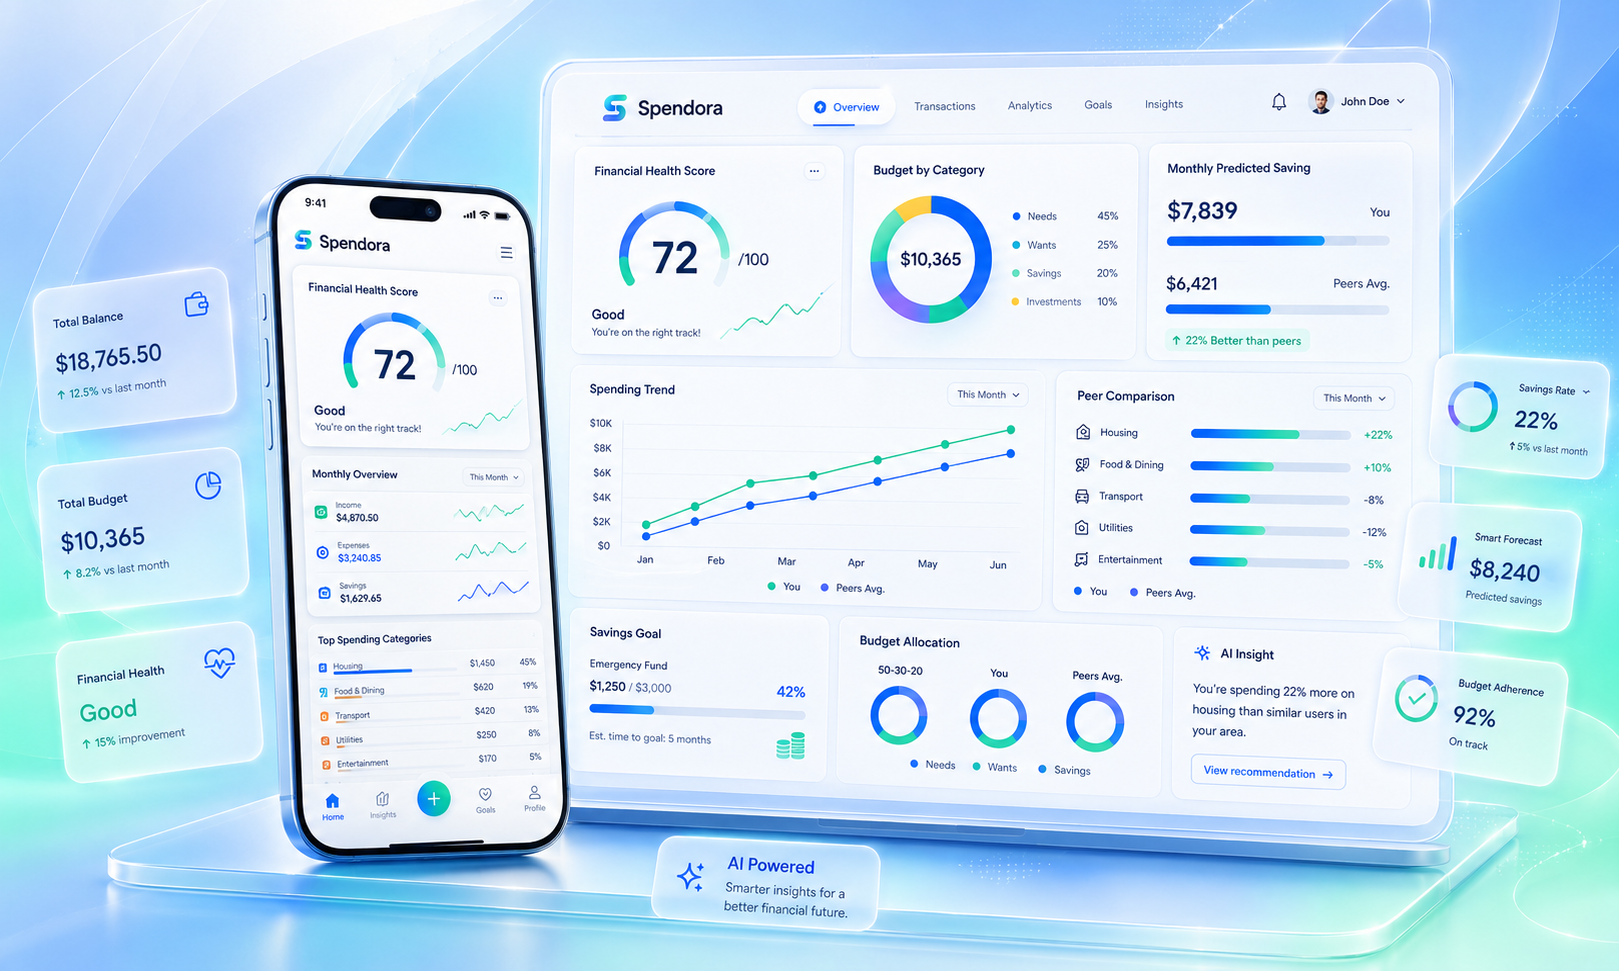
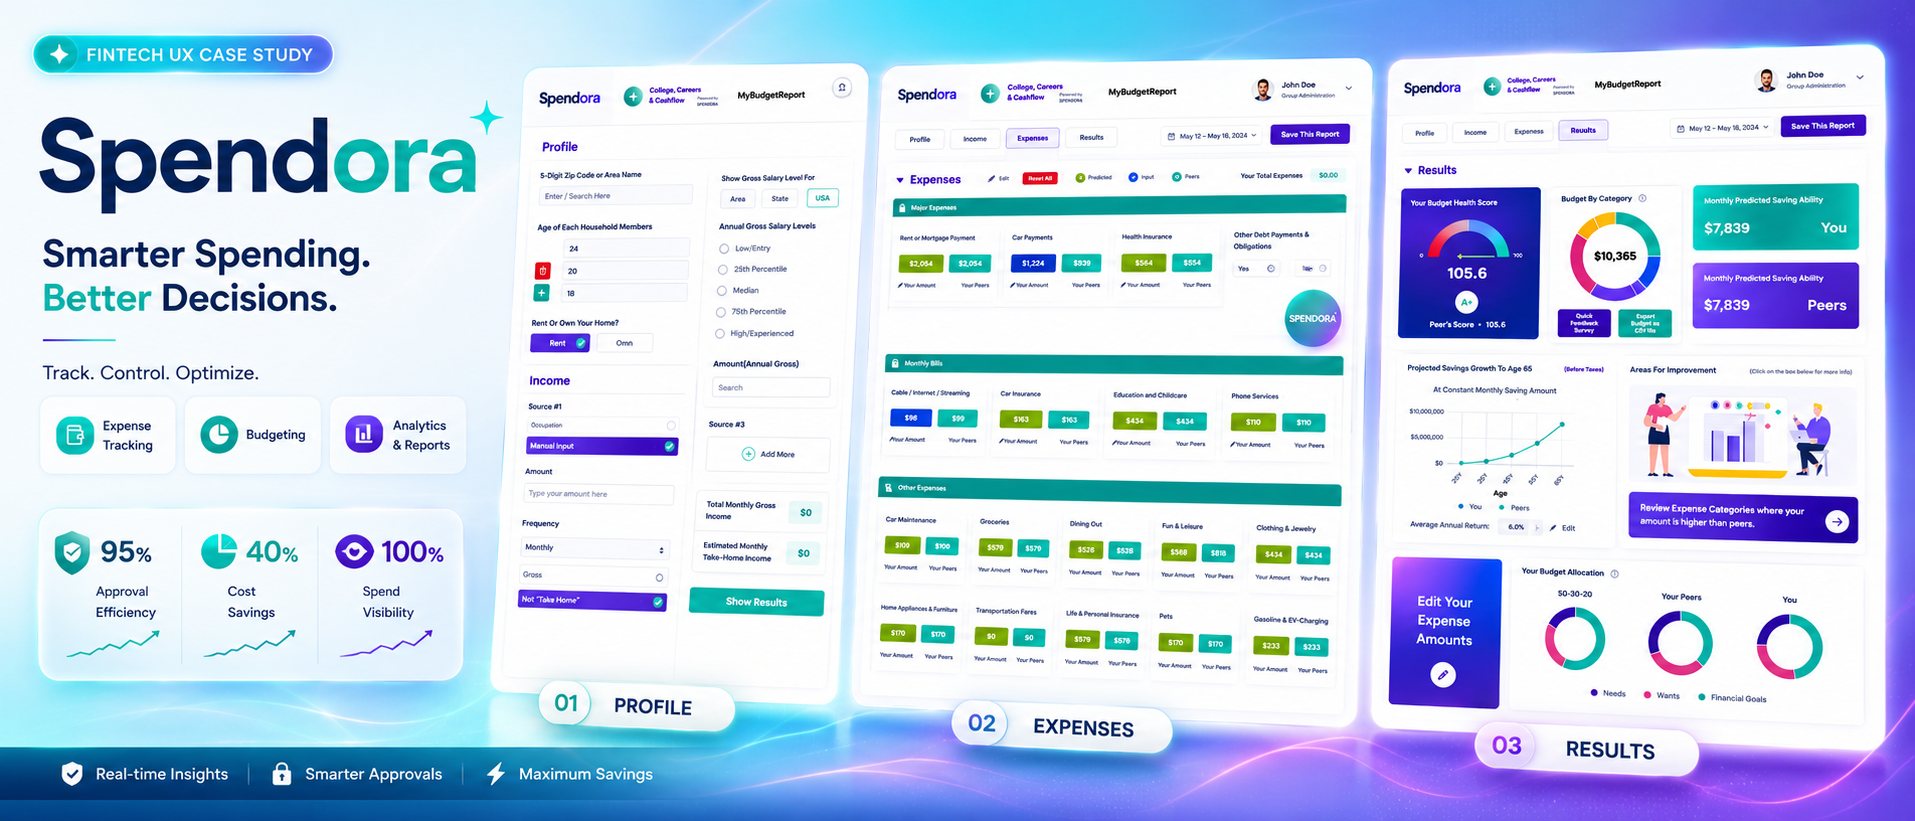
feat: update project images and links for Carenova, Spendora, OasisPad, TicketStack, MarketVision, and MRI Logic

diff --git a/data/projects.ts b/data/projects.ts
@@ -14,7 +14,7 @@ export const projects: Project[] = [
     slug: "spendora",
     title: "AI-POWERED SMART EXPENSE ECOSYSTEM",
     category: "Spendora™",
-    image: "/images/spendora.png",
+    image: "/images/Spendora-Card-Folio.png",
     description: "Intelligent expense tracking and financial management powered by AI.",
     results: "+35% Savings Accuracy",
     tags: ["Fintech", "AI UX", "Mobile Design"],
@@ -24,7 +24,7 @@ export const projects: Project[] = [
     slug: "carenova",
     title: "FACILITY & COMPLIANCE MANAGEMENT PLATFORM",
     category: "Carenova™",
-    image: "/images/carevanata.png",
+    image: "/images/Carenova-Card-Folio.png",
     description: "Comprehensive enterprise platform for facility operations and compliance tracking.",
     results: "100% Compliance Rate",
     tags: ["Enterprise SaaS", "Workflow", "Dashboard"],
@@ -34,7 +34,7 @@ export const projects: Project[] = [
     slug: "oasispad",
     title: "SMART KNOWLEDGE & PRODUCTIVITY WORKSPACE",
     category: "OasisPad™",
-    image: "/images/oasispad.png",
+    image: "/images/OasisPad-Card-Folio.png",
     description: "Next-gen workspace for knowledge management and team collaboration.",
     results: "40% Productivity Boost",
     tags: ["Productivity", "SaaS", "UX Design"],
@@ -44,7 +44,7 @@ export const projects: Project[] = [
     slug: "ticketstack",
     title: "RETAIL TICKETING EXPERIENCE REDESIGN",
     category: "TicketStack™",
-    image: "/images/ticketstack.png",
+    image: "/images/TicketStack-Card-Folio.png",
     description: "Modernizing the retail ticketing process with an intuitive digital ecosystem.",
     results: "50% Faster Transactions",
     tags: ["Retail UX", "System Design"],
@@ -54,7 +54,7 @@ export const projects: Project[] = [
     slug: "marketvisionai",
     title: "AI-POWERED MARKET INTELLIGENCE PLATFORM",
     category: "MarketVisionAI™",
-    image: "/images/marketvisionai.png",
+    image: "/images/MarketVision-Card-Folio.png",
     description: "Real-time market insights and predictive analytics for strategic decision making.",
     results: "Validated Market Trends",
     tags: ["AI Platform", "Data Viz"],
@@ -64,7 +64,7 @@ export const projects: Project[] = [
     slug: "carevation-healthcare",
     title: "SMART CAREGIVING & COORDINATION PLATFORM",
     category: "Carevation™",
-    image: "/images/pulse-grid.png",
+    image: "/images/Carevation-Card-Folio.png",
     description: "Streamlining care coordination and patient monitoring for healthcare teams.",
     results: "+60% Care Efficiency",
     tags: ["Healthcare", "UX Strategy"],
@@ -74,7 +74,7 @@ export const projects: Project[] = [
     slug: "mri-logic",
     title: "AI-ASSISTED MEDICAL DEVICE VALIDATION TOOL",
     category: "MRI Logic™",
-    image: "/images/pulse-grid.png",
+    image: "/images/MRILogic-Card-Folio.png",
     description: "Cutting-edge AI tool for validating complex medical device data and compliance.",
     results: "99.9% Accuracy",
     tags: ["Healthcare", "AI", "Medical Tech"],
@@ -84,7 +84,7 @@ export const projects: Project[] = [
     slug: "supercampus",
     title: "DIGITAL LEARNING & ADMINISTRATION ECOSYSTEM",
     category: "SuperCampus™",
-    image: "/images/spendora.png",
+    image: "/images/SuperCampus-Card-Folio.png",
     description: "All-in-one platform for educational administration and digital learning workflows.",
     results: "Empowering 10k+ Students",
     tags: ["EdTech", "SaaS", "Admin UX"],

diff --git a/pages/case-studies/ticketstack.js b/pages/case-studies/ticketstack.js
@@ -43,7 +43,7 @@ export default function TicketStackCaseStudy() {
       <div className={`w-full ${aspect} glass-card rounded-3xl flex flex-col items-center justify-center overflow-hidden relative group transition-all duration-500 border-2 border-[#4F46E5]/10 hover:border-[#EC4899]/40 shadow-lg`}>
          <div
             className="absolute -top-24 -right-24 w-64 h-64 blur-[60px] rounded-full transition-all duration-700 group-hover:scale-[1.5] group-hover:opacity-20 opacity-10 pointer-events-none z-0"
-            style={{ backgroundColor: glowCls.replace('bg-[', '').replace(']', '') }}
+           style={{ backgroundColor: glowCls.replace('bg-[', '').replace(']', '') }}
          />
          <div className="absolute inset-0 bg-gradient-to-tr from-black/5 to-transparent pointer-events-none" />
          {Icon && <Icon className={`w-14 h-14 mb-4 flex-shrink-0 group-hover:scale-110 transition-transform duration-500 relative z-10 ${textCls} opacity-30`} strokeWidth={1.2} />}
@@ -145,7 +145,12 @@ export default function TicketStackCaseStudy() {
                         className="absolute -top-32 -right-32 w-96 h-96 blur-[100px] rounded-full transition-all duration-700 group-hover:scale-125 group-hover:opacity-30 opacity-30 pointer-events-none z-0"
                         style={{ background: 'linear-gradient(135deg, #EC4899 0%, #4F46E5 100%)' }}
                      />
-                     {/* Dummy Placeholder */}
+                       <Image
+                           src="/images/ticketstack/HeroProduct-Dashboard.png"
+                           alt="TicketStack Dashboard"
+                           fill
+                           className="object-cover relative z-10 transition-transform duration-1000 group-hover:scale-[1.02]"
+                        />
                      <div className="text-center relative z-10 opacity-40">
                          <Layout size={64} className="mx-auto mb-4 text-[#4F46E5]" />
                          <p className="font-bold tracking-widest uppercase text-slate-800">Hero Product Dashboard Mockup</p>
@@ -486,7 +491,13 @@ export default function TicketStackCaseStudy() {
                             </div>
                        </div>
                        <div className="relative">
-                            <PremiumPlaceholder aspect="aspect-square" label="Information Architecture Sitemap" glowCls="bg-[#EC4899]" icon={Layers} />
+                             <PremiumPlaceholder aspect="aspect-square" label="Information Architecture Sitemap" glowCls="bg-[#EC4899]" icon={Layers} />
+                              <div className="w-full glass-card rounded-3xl overflow-hidden relative group transition-all duration-500 border-2 border-[#4F46E5]/10 hover:border-[#EC4899]/40 shadow-lg">
+                                 <img src="/images/ticketstack/InformationArchitecture.png" alt="Information Architecture Sitemap" className="w-full h-auto object-contain" />
+                                 <span className="absolute bottom-4 left-0 right-0 text-center font-bold tracking-[0.2em] text-[10px] uppercase text-text-secondary opacity-50 group-hover:opacity-100 transition-opacity z-10">
+                                    Information Architecture Sitemap
+                                 </span>
+                              </div>
                        </div>
                    </div>
                </section>

diff --git a/components/ProjectsSlider.js b/components/ProjectsSlider.js
@@ -13,7 +13,7 @@ const projects = [
     title: 'Spendora™',
     slug: 'spendora',
     subtitle: 'AI‑Powered Smart Expense',
-    img: '/images/spendora.png',
+    img: '/images/Spendora-Card-Folio.png',
     description:
       'A full‑stack SaaS platform that streamlines expense reporting with AI‑driven categorisation and real‑time analytics.',
   },
@@ -21,7 +21,7 @@ const projects = [
     title: 'Carenova™',
     slug: 'carenova',
     subtitle: 'Facility & Compliance',
-    img: '/images/carevanata.png',
+    img: '/images/Carenova-Card-Folio.png',
     description:
       'Enterprise‑grade solution for facility operations, allowing automated compliance checks and resource scheduling.',
   },
@@ -29,7 +29,7 @@ const projects = [
     title: 'OasisPad™',
     slug: 'oasispad',
     subtitle: 'Smart Knowledge Workspace',
-    img: '/images/oasispad.png',
+    img: '/images/OasisPad-Card-Folio.png',
     description:
       'A collaborative note‑taking environment with AI‑suggested tagging and contextual linking.',
   },
@@ -37,7 +37,7 @@ const projects = [
     title: 'TicketStack™',
     slug: 'ticketstack',
     subtitle: 'Retail Ticketing Redesign',
-    img: '/images/ticketstack.png',
+    img: '/images/TicketStack-Card-Folio.png',
     description:
       'Revamped ticketing UI for retail stores, delivering frictionless checkout and analytics.',
   },
@@ -45,7 +45,7 @@ const projects = [
     title: 'MarketVisionAI™',
     slug: 'marketvisionai',
     subtitle: 'AI Market Intelligence',
-    img: '/images/marketvisionai.png',
+    img: '/images/MarketVision-Card-Folio.png',
     description:
       'AI-powered market intelligence platform that continuously analyzes global market signals and proactively recommends strategic business opportunities.',
   },
@@ -53,7 +53,7 @@ const projects = [
     title: 'MRI Logic™',
     slug: 'mri-logic',
     subtitle: 'Medical Device Validation',
-    img: '/images/pulse-grid.png',
+    img: '/images/MRILogic-Card-Folio.png',
     description:
       'AI-assisted medical device validation platform accelerating MRI compliance, risk analysis, and clinical validation workflows.',
   },

diff --git a/components/Hero.js b/components/Hero.js
@@ -111,12 +111,12 @@ const Hero = () => {
                 </div>
                 <div className="grid grid-cols-2 sm:grid-cols-6 gap-3 md:gap-4">
                   {[
-                    { img: "/images/carevanata.png", name: "Carevanta", href: "/case-studies/carenova" },
-                    { img: "/images/spendora.png", name: "Spendora", href: "/case-studies/spendora" },
-                    { img: "/images/oasispad.png", name: "OasisPad", href: "/case-studies/oasispad" },
-                    { img: "/images/ticketstack.png", name: "TicketStack", href: "/case-studies/ticketstack" },
-                    { img: "/images/marketvisionai.png", name: "MarketVision", href: "/case-studies/marketvisionai" },
-                    { img: "/images/pulse-grid.png", name: "MRI Logic", href: "/case-studies/mri-logic" },
+                    { img: "/images/Carenova-Card-Folio.png", name: "carenova", href: "/case-studies/carenova" },
+                    { img: "/images/Spendora-Card-Folio.png", name: "Spendora", href: "/case-studies/spendora" },
+                    { img: "/images/OasisPad-Card-Folio.png", name: "OasisPad", href: "/case-studies/oasispad" },
+                    { img: "/images/TicketStack-Card-Folio.png", name: "TicketStack", href: "/case-studies/ticketstack" },
+                    { img: "/images/MarketVision-Card-Folio.png", name: "MarketVision", href: "/case-studies/marketvisionai" },
+                    { img: "/images/MRILogic-Card-Folio.png", name: "MRI Logic", href: "/case-studies/mri-logic" },
                   ].map((project, i) => (
                     <Link
                       key={i}

diff --git a/components/FeaturedCaseStudy.js b/components/FeaturedCaseStudy.js
@@ -37,8 +37,8 @@ const FeaturedCaseStudy = () => {
               <div className="w-full h-full min-h-[300px] md:min-h-[400px] rounded-2xl bg-gradient-to-br from-[#00DA99] to-[#0D63CC] p-2 flex items-center justify-center relative overflow-hidden shadow-inner">
                 {/* Project Image */}
                 <img
-                  src="/images/carevanta-health.png"
-                  alt="Carevanta Health Workflow System"
+                  src="/images/Carenova-Case-Study.png"
+                  alt="carenova Health Workflow System"
                   className="w-full h-auto object-cover rounded-xl shadow-2xl relative z-10"
                 />
               </div>
@@ -84,7 +84,7 @@ const FeaturedCaseStudy = () => {
                 </div>
 
                 <div className="pt-4">
-                  <Link href="/case-studies/carevanta" passHref>
+                  <Link href="/case-studies/carenova" passHref>
                     <motion.button
                       whileHover={{ scale: 1.05 }}
                       whileTap={{ scale: 0.95 }}

diff --git a/components/SelectedWorks.js b/components/SelectedWorks.js
@@ -21,7 +21,7 @@ const projects = [
   {
     id: "02",
     slug: "carenova",
-    name: "Carevanta Systems™",
+    name: "carenova Systems™",
     category: "FACILITY & COMPLIANCE PLATFORM",
     color: "#0D63CC",
     dotColor: "#0D63CC",
